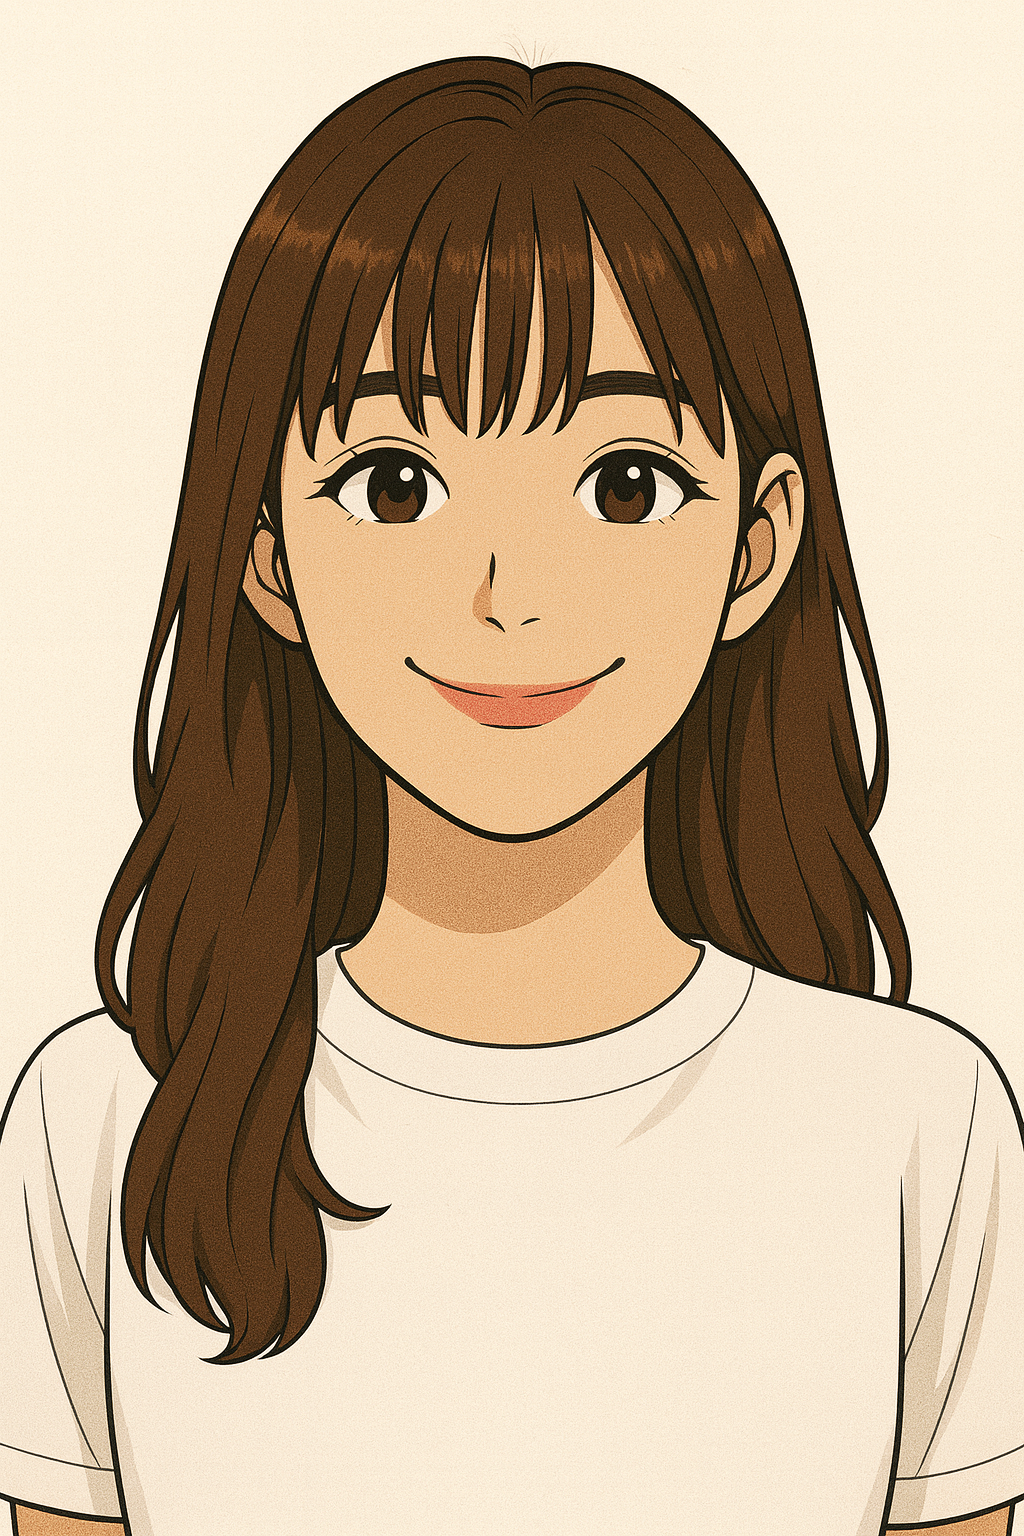
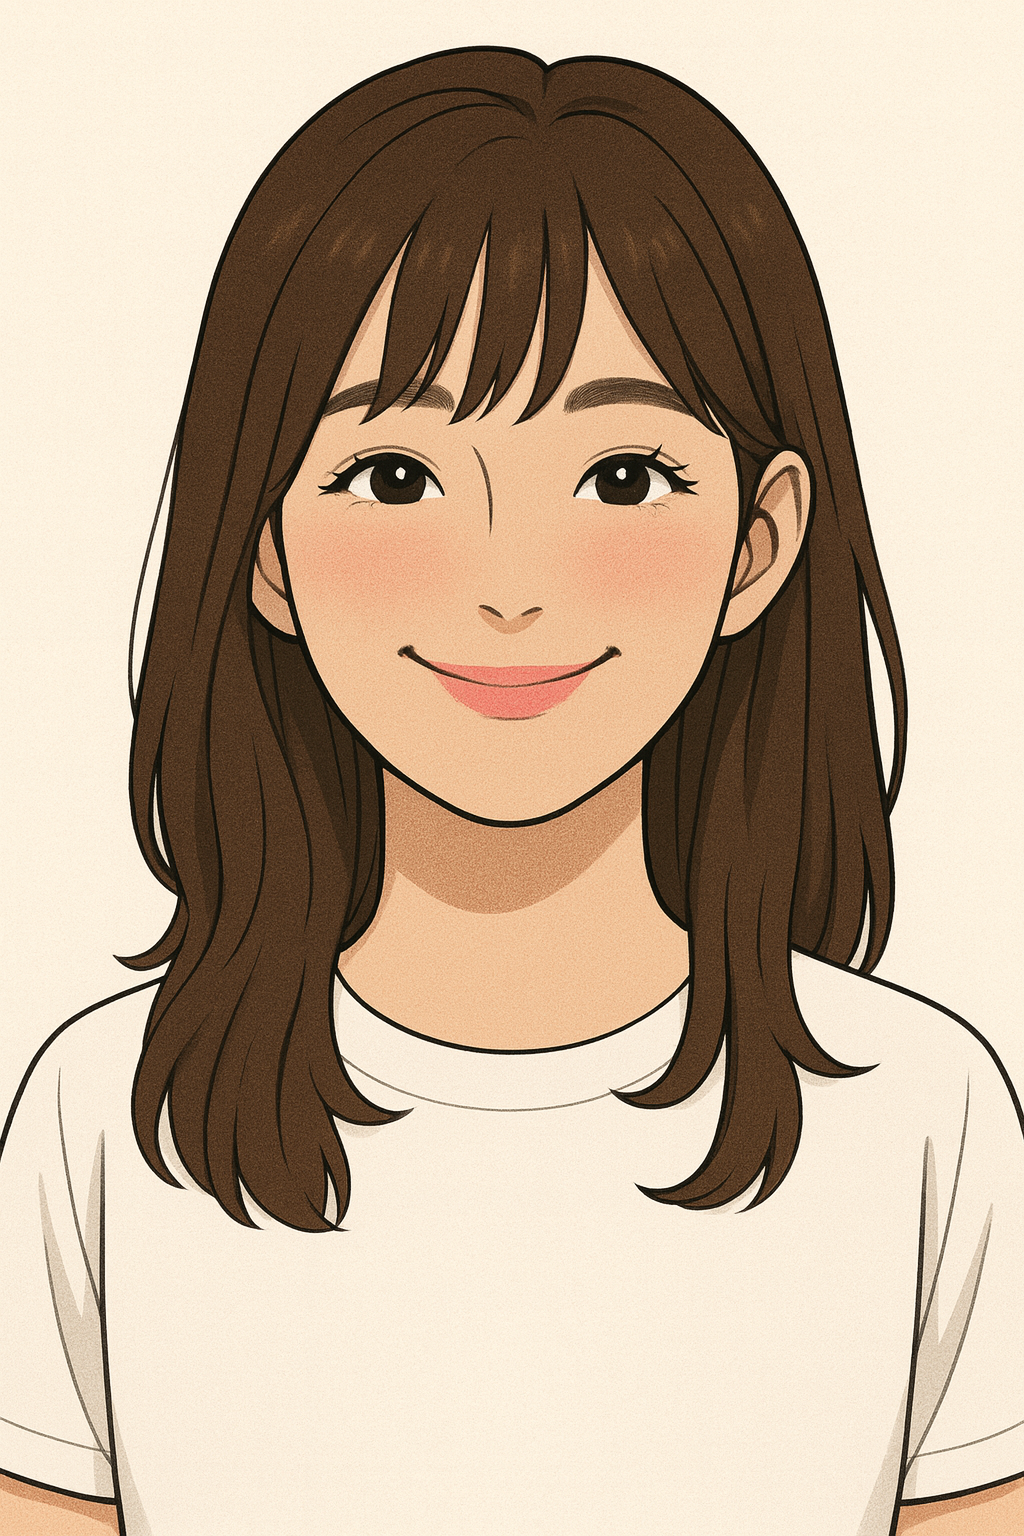
feat: 여성 모델 추가 및 성별별 모델 지원
- 여성 Teachable Machine 모델 추가 (P3QZ3AWH_)
- 성별에 따라 다른 모델 로드 (남성/여성)
- 여성 모델: 8종 (올리브오일 제외)
- 남성 모델: 9종 (전체)
- 여성 버튼 활성화
- 조미료 availableFor 업데이트
  - 간장, 미소, 소금, 설탕, 소스: 남성/여성 모두
  - 마요네즈, 식초, 케첩: 남성/여성 모두
  - 올리브오일: 남성만

Changed region(s): [[0.0, 0.0312, 0.9062, 1.0], [0.8438, 0.6562, 1.0, 1.0]]

diff --git a/src/features/inference/lib/inference-engine.ts b/src/features/inference/lib/inference-engine.ts
@@ -7,10 +7,20 @@ const SEASONINGS = seasoningsData as Array<{
 }>;
 
 // Teachable Machine モデルURL
-const MODEL_URL = "https://teachablemachine.withgoogle.com/models/nKV4owvTC/";
+const MODEL_URLS = {
+  male: "https://teachablemachine.withgoogle.com/models/nKV4owvTC/",
+  female: "https://teachablemachine.withgoogle.com/models/P3QZ3AWH_/",
+};
 
-let modelInstance: any = null;
-let isModelLoading = false;
+let modelInstances: Record<Gender, any> = {
+  male: null,
+  female: null,
+};
+
+let isModelLoading: Record<Gender, boolean> = {
+  male: false,
+  female: false,
+};
 
 declare global {
   interface Window {
@@ -18,19 +28,19 @@ declare global {
   }
 }
 
-export async function loadModel(): Promise<void> {
-  if (modelInstance) {
+export async function loadModel(gender: Gender = "male"): Promise<void> {
+  if (modelInstances[gender]) {
     return;
   }
 
-  if (isModelLoading) {
-    while (isModelLoading) {
+  if (isModelLoading[gender]) {
+    while (isModelLoading[gender]) {
       await new Promise((resolve) => setTimeout(resolve, 100));
     }
     return;
   }
 
-  isModelLoading = true;
+  isModelLoading[gender] = true;
 
   try {
     // Teachable Machine ライブラリの読み込み確認
@@ -38,16 +48,16 @@ export async function loadModel(): Promise<void> {
       throw new Error("Teachable Machine library not loaded");
     }
 
-    const modelURL = MODEL_URL + "model.json";
-    const metadataURL = MODEL_URL + "metadata.json";
+    const modelURL = MODEL_URLS[gender] + "model.json";
+    const metadataURL = MODEL_URLS[gender] + "metadata.json";
 
-    modelInstance = await window.tmImage.load(modelURL, metadataURL);
-    console.log("Model loaded successfully");
+    modelInstances[gender] = await window.tmImage.load(modelURL, metadataURL);
+    console.log(`${gender} model loaded successfully`);
   } catch (error) {
-    console.error("Failed to load model:", error);
+    console.error(`Failed to load ${gender} model:`, error);
     throw error;
   } finally {
-    isModelLoading = false;
+    isModelLoading[gender] = false;
   }
 }
 
@@ -76,8 +86,8 @@ export async function runInference(
   gender: Gender = "male"
 ): Promise<InferenceResult[]> {
   try {
-    if (!modelInstance) {
-      await loadModel();
+    if (!modelInstances[gender]) {
+      await loadModel(gender);
     }
 
     // 画像要素を作成
@@ -91,8 +101,8 @@ export async function runInference(
     });
 
     // Teachable Machine で推論
-    const predictions = await modelInstance.predict(img);
-    console.log("Predictions:", predictions);
+    const predictions = await modelInstances[gender].predict(img);
+    console.log(`${gender} model predictions:`, predictions);
 
     // 予測結果をInferenceResult形式に変換
     // モデルのクラス名: "soy_sauce_face", "mayo_face" など

diff --git a/src/components/gender-toggle.tsx b/src/components/gender-toggle.tsx
@@ -11,7 +11,7 @@ export function GenderToggle() {
 
   const genders: { value: Gender; icon: typeof User; disabled: boolean }[] = [
     { value: "male", icon: User, disabled: false },
-    { value: "female", icon: UserCheck, disabled: true },
+    { value: "female", icon: UserCheck, disabled: false },
   ];
 
   return (

diff --git a/src/features/inference/hooks/use-inference.ts b/src/features/inference/hooks/use-inference.ts
@@ -27,7 +27,7 @@ export function useInference(): UseInferenceResult {
       setError(null);
 
       try {
-        await loadModel();
+        await loadModel(gender);
 
         const results = await runInference(imageDataUrl, gender);
         const top3 = getTop3Results(results);
